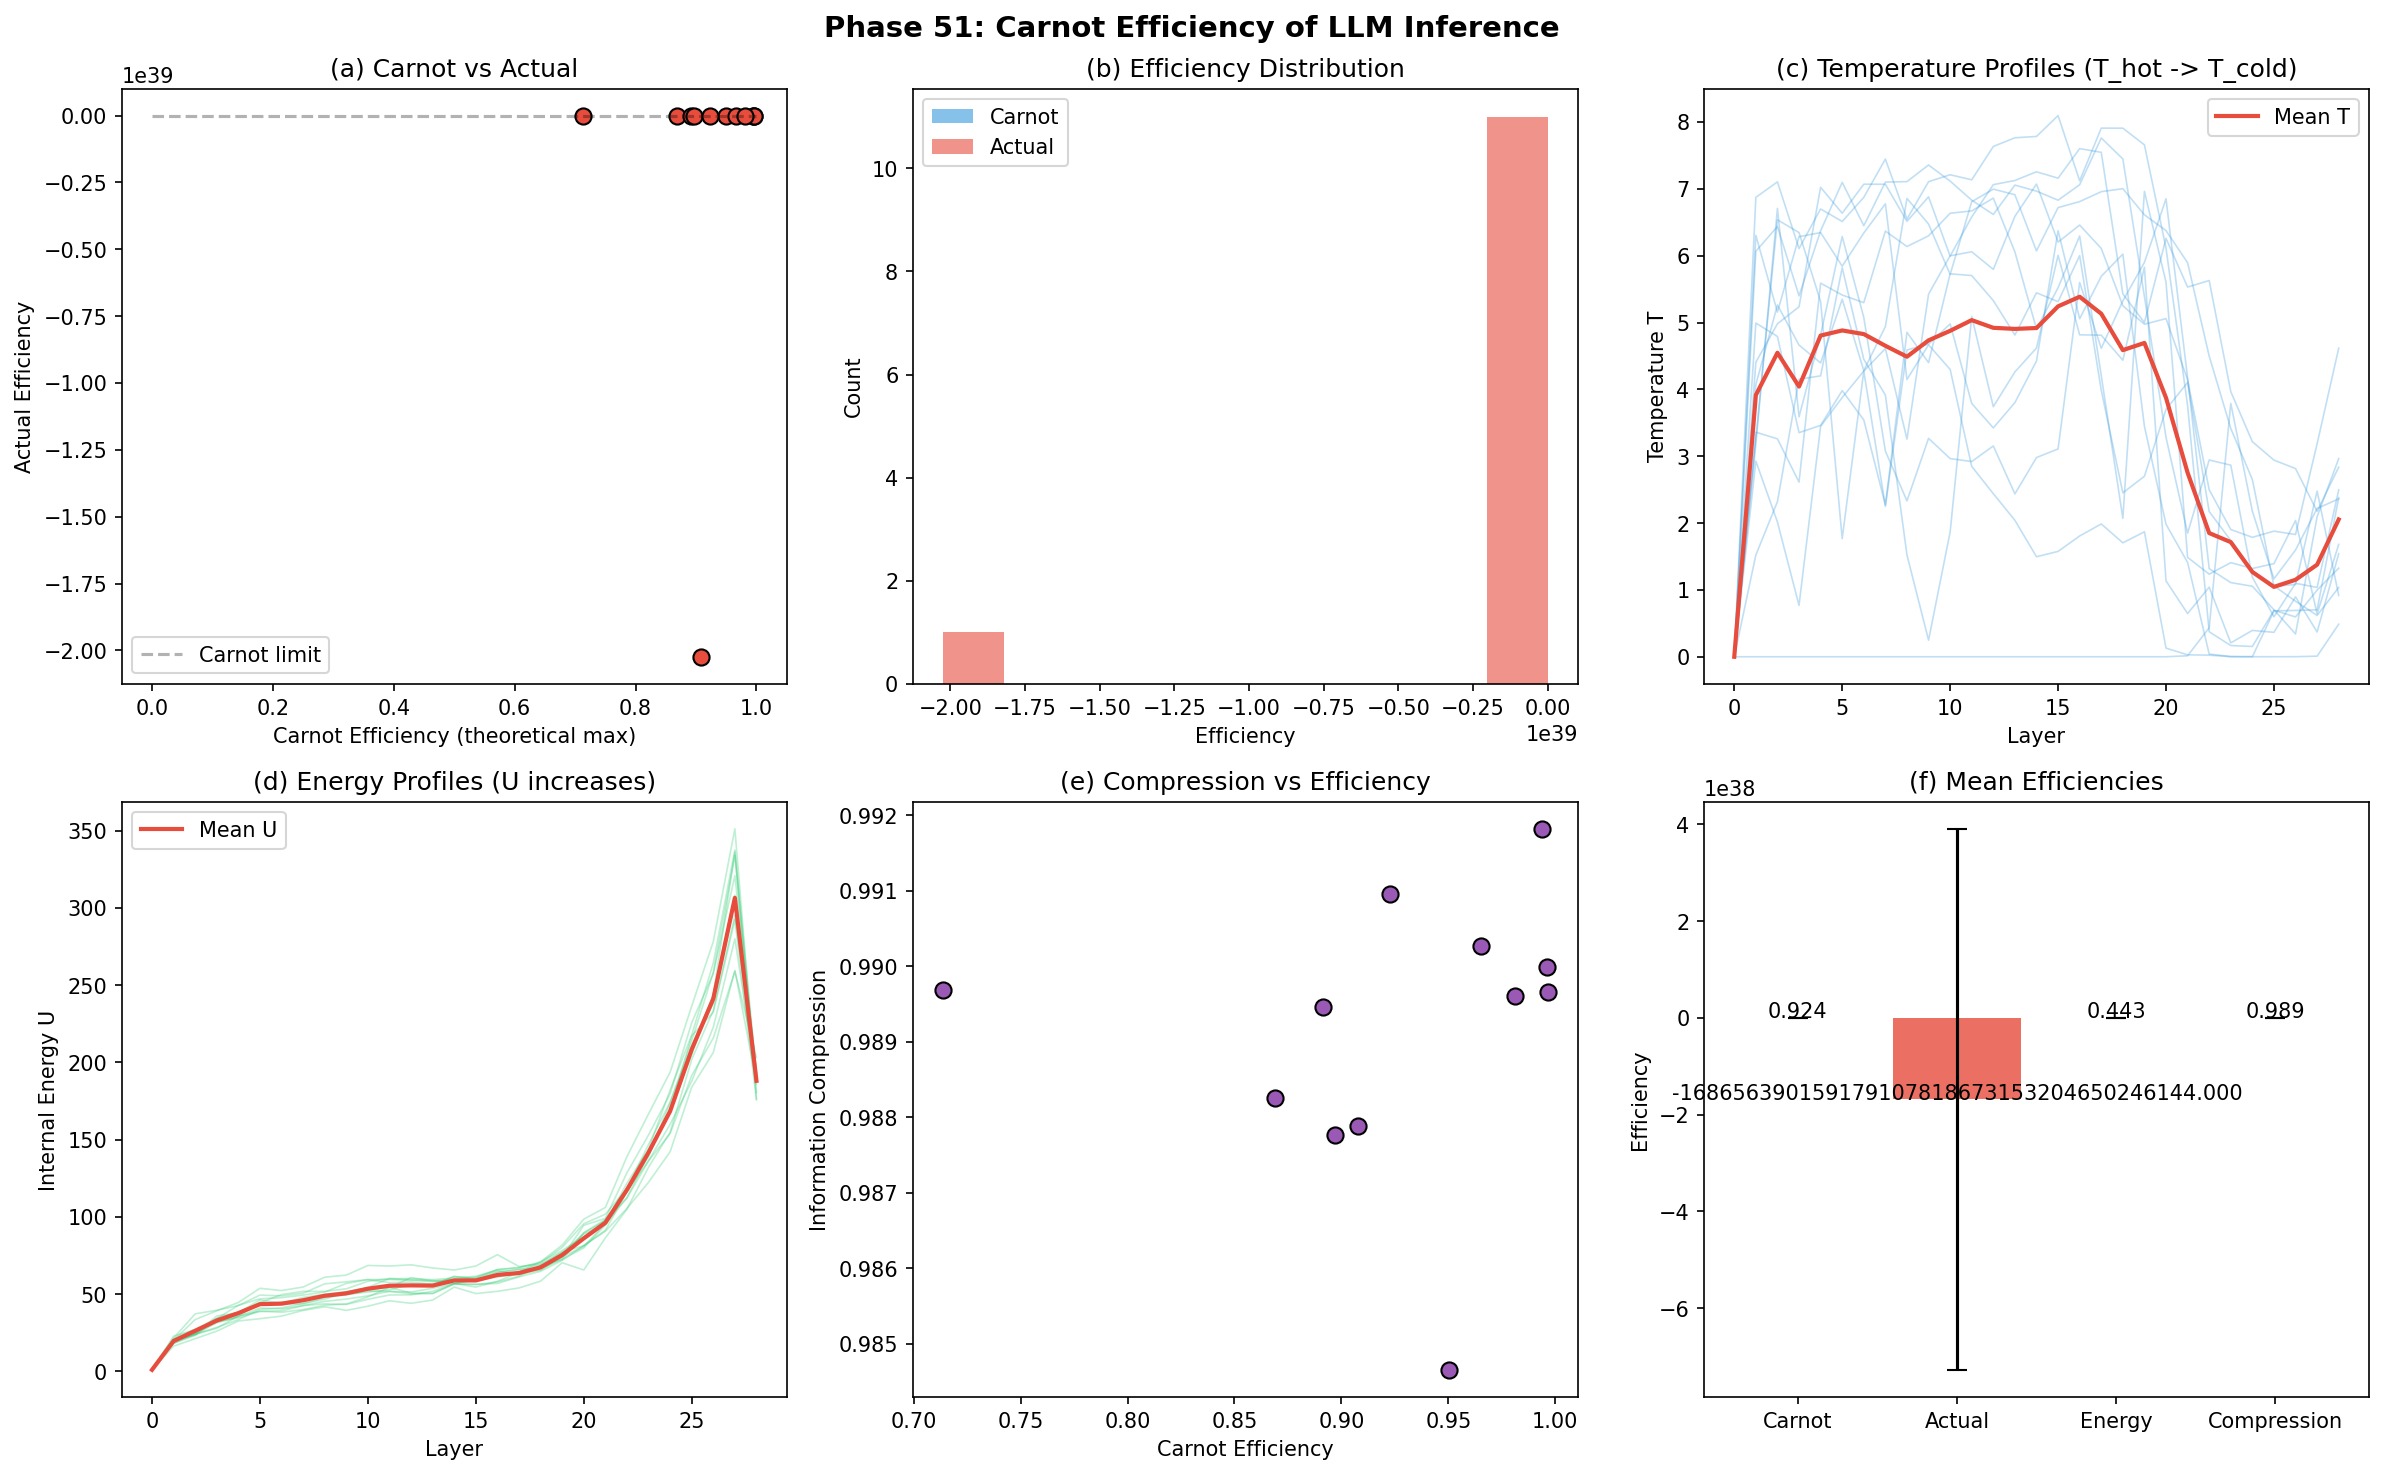
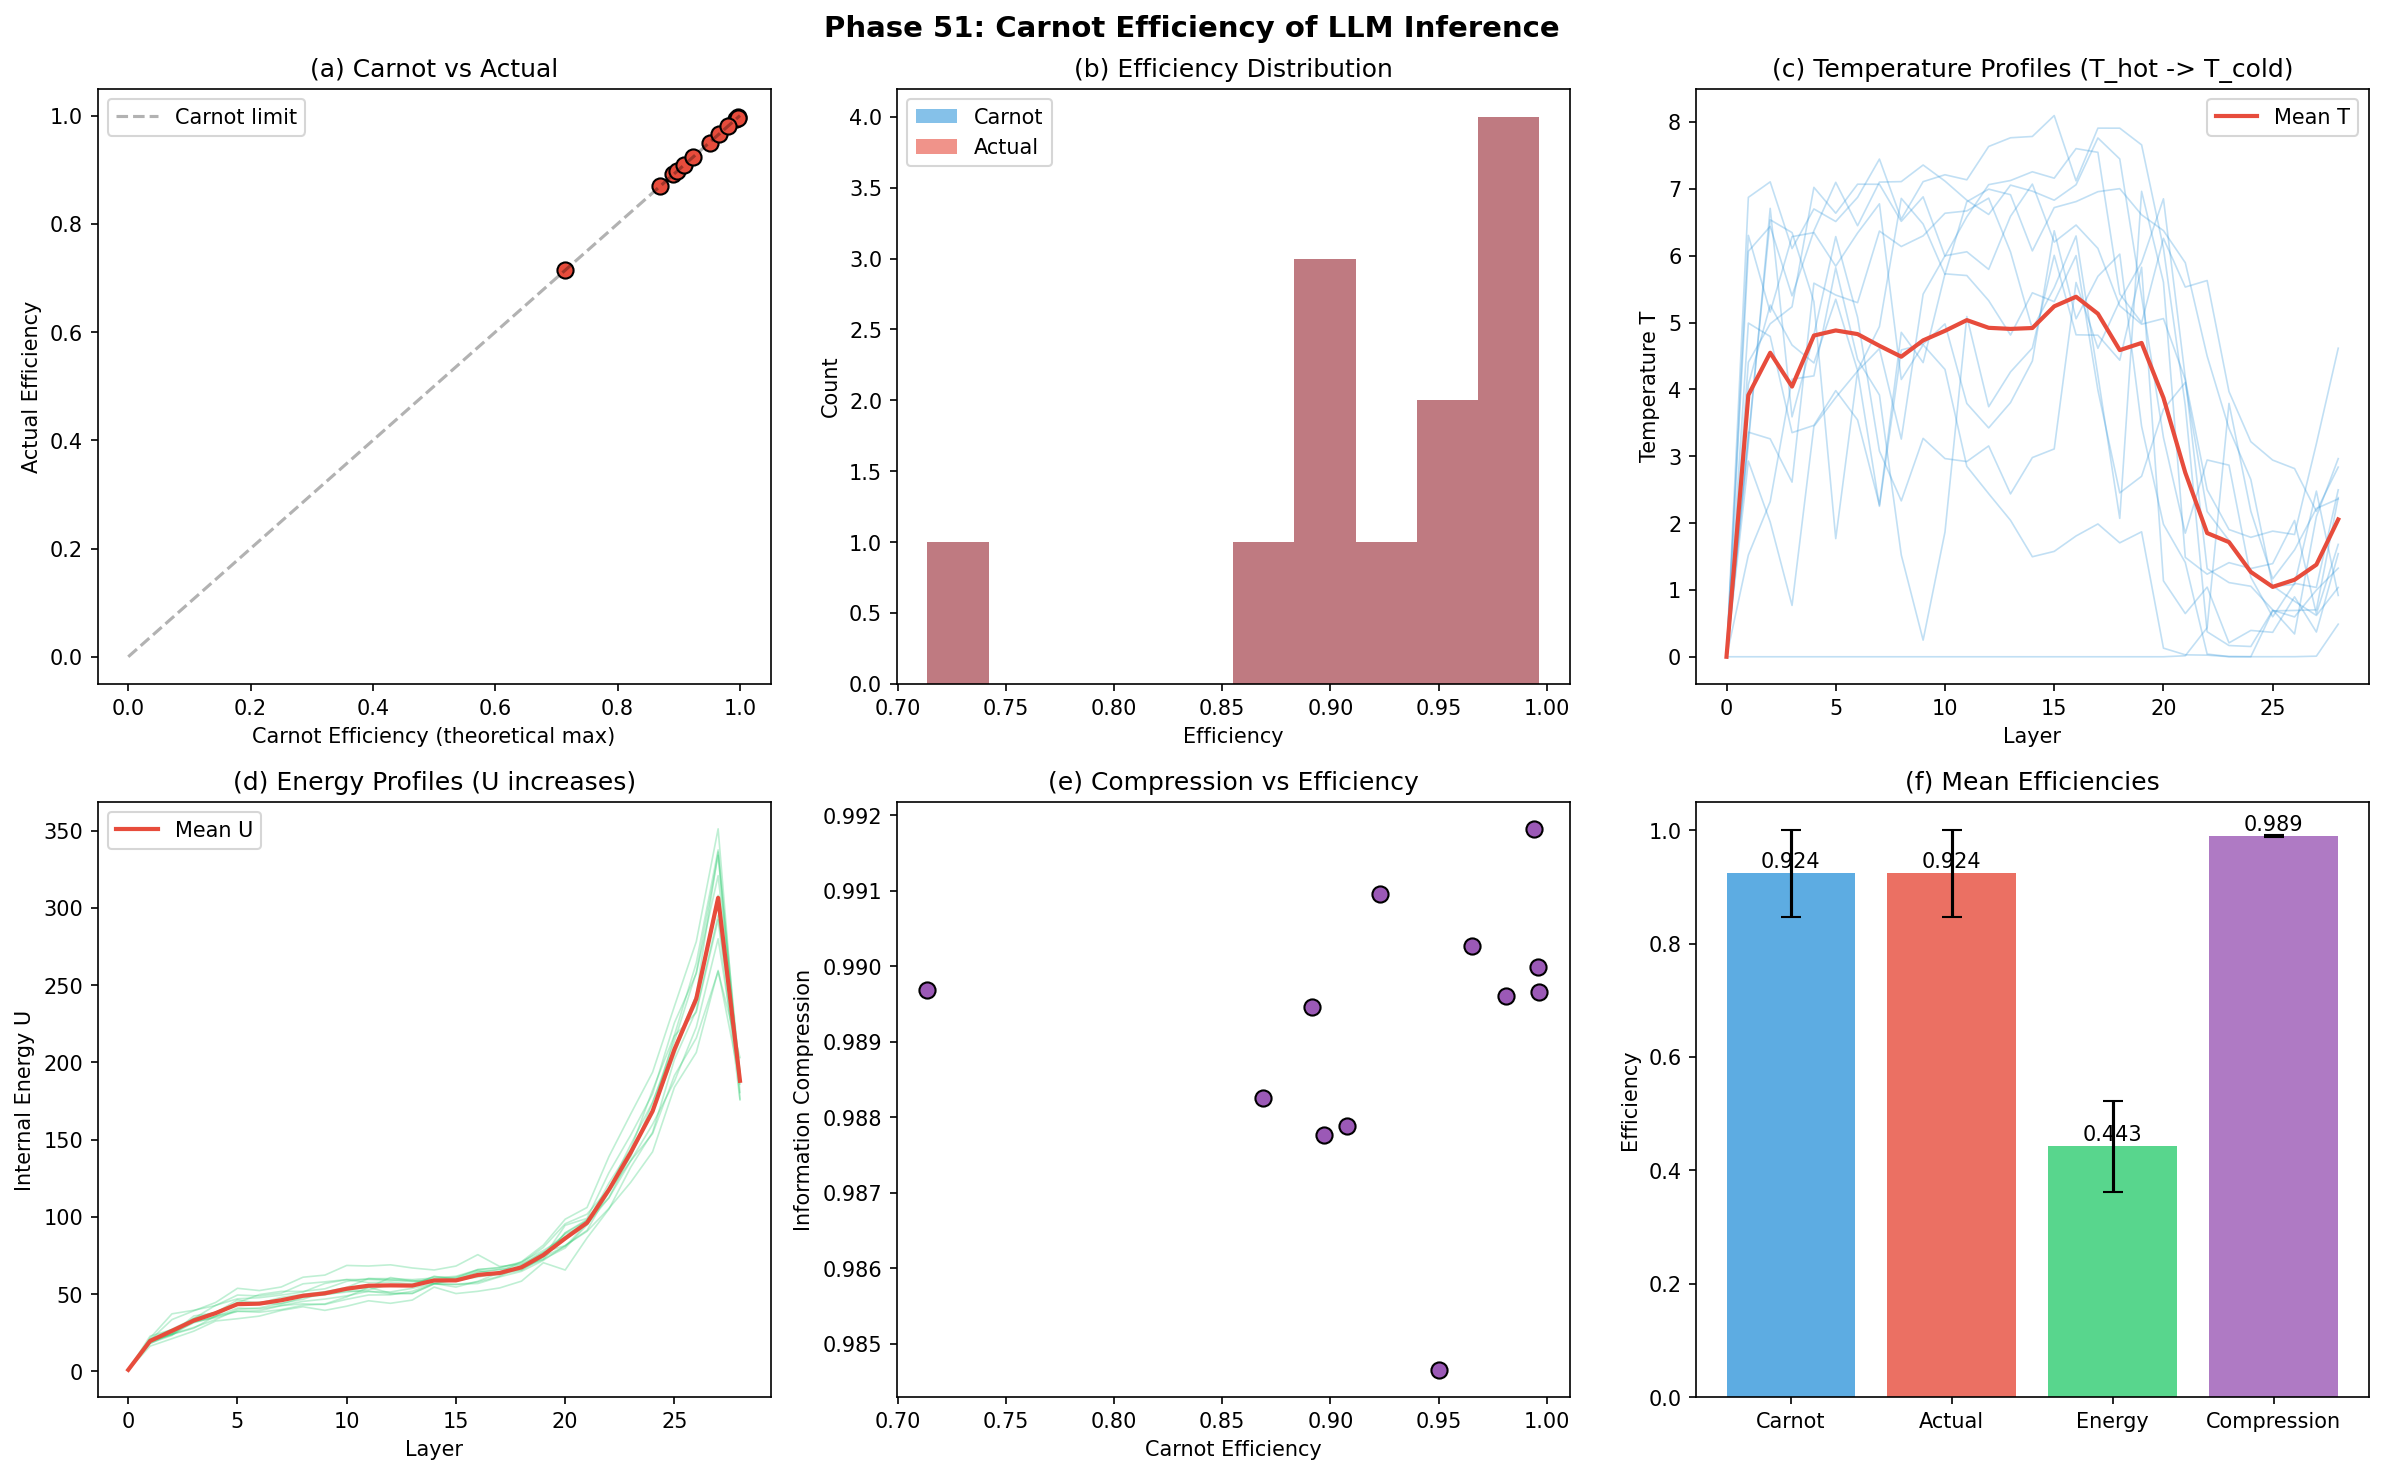
Phase 51 fix: Carnot eta=0.924, compression=98.9%

diff --git a/experiments/phase51_carnot.py b/experiments/phase51_carnot.py
@@ -59,13 +59,13 @@ def main():
         else:
             eta_carnot = 0
 
-        # Actual efficiency: how much entropy was removed
-        T_initial = T_profile[0] if T_profile[0] > 0 else T_profile[1]
-        T_final = T_profile[-1]
-        if T_initial > 0:
-            eta_actual = (T_initial - T_final) / T_initial
+        # Actual efficiency: how much entropy was removed from hot to cold
+        if T_hot > 0.1:
+            eta_actual = (T_hot - T_cold) / T_hot
         else:
             eta_actual = 0
+        # Clamp to reasonable range
+        eta_actual = float(np.clip(eta_actual, -1.0, 1.0))
 
         # Energy efficiency: U_final / U_total_invested
         U_total = sum(abs(U_profile[i+1] - U_profile[i]) for i in range(len(U_profile)-1))